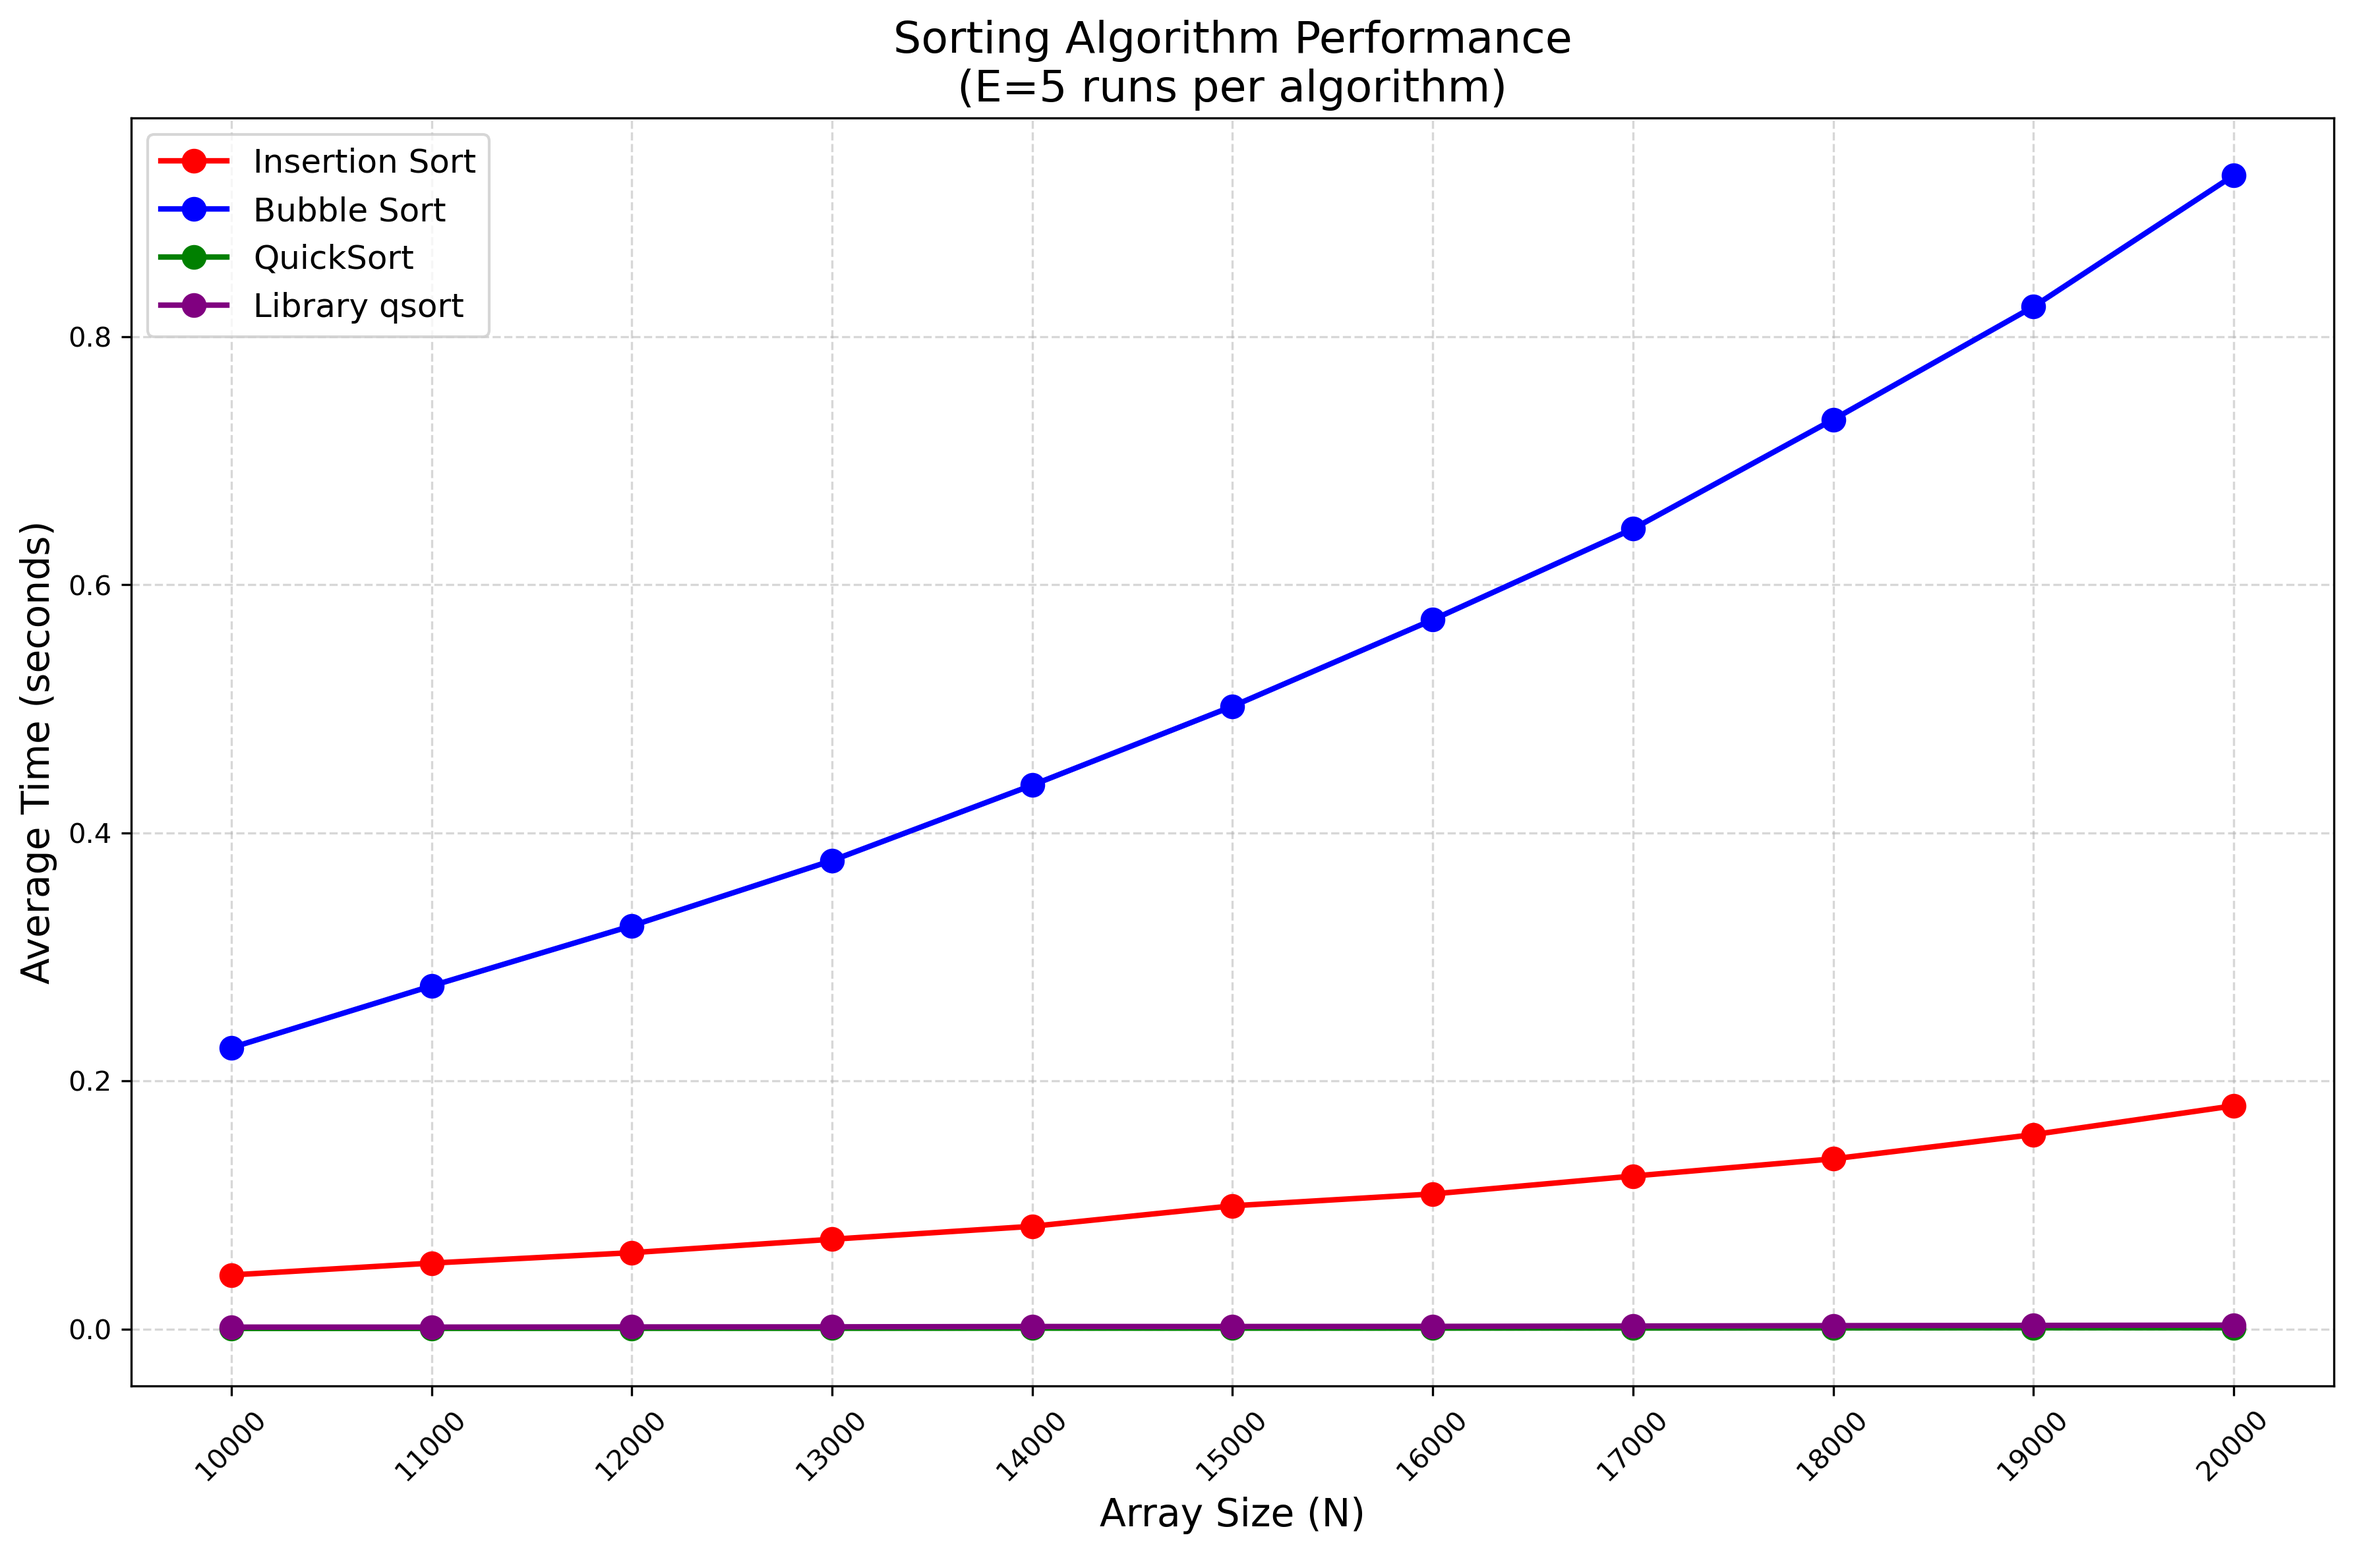
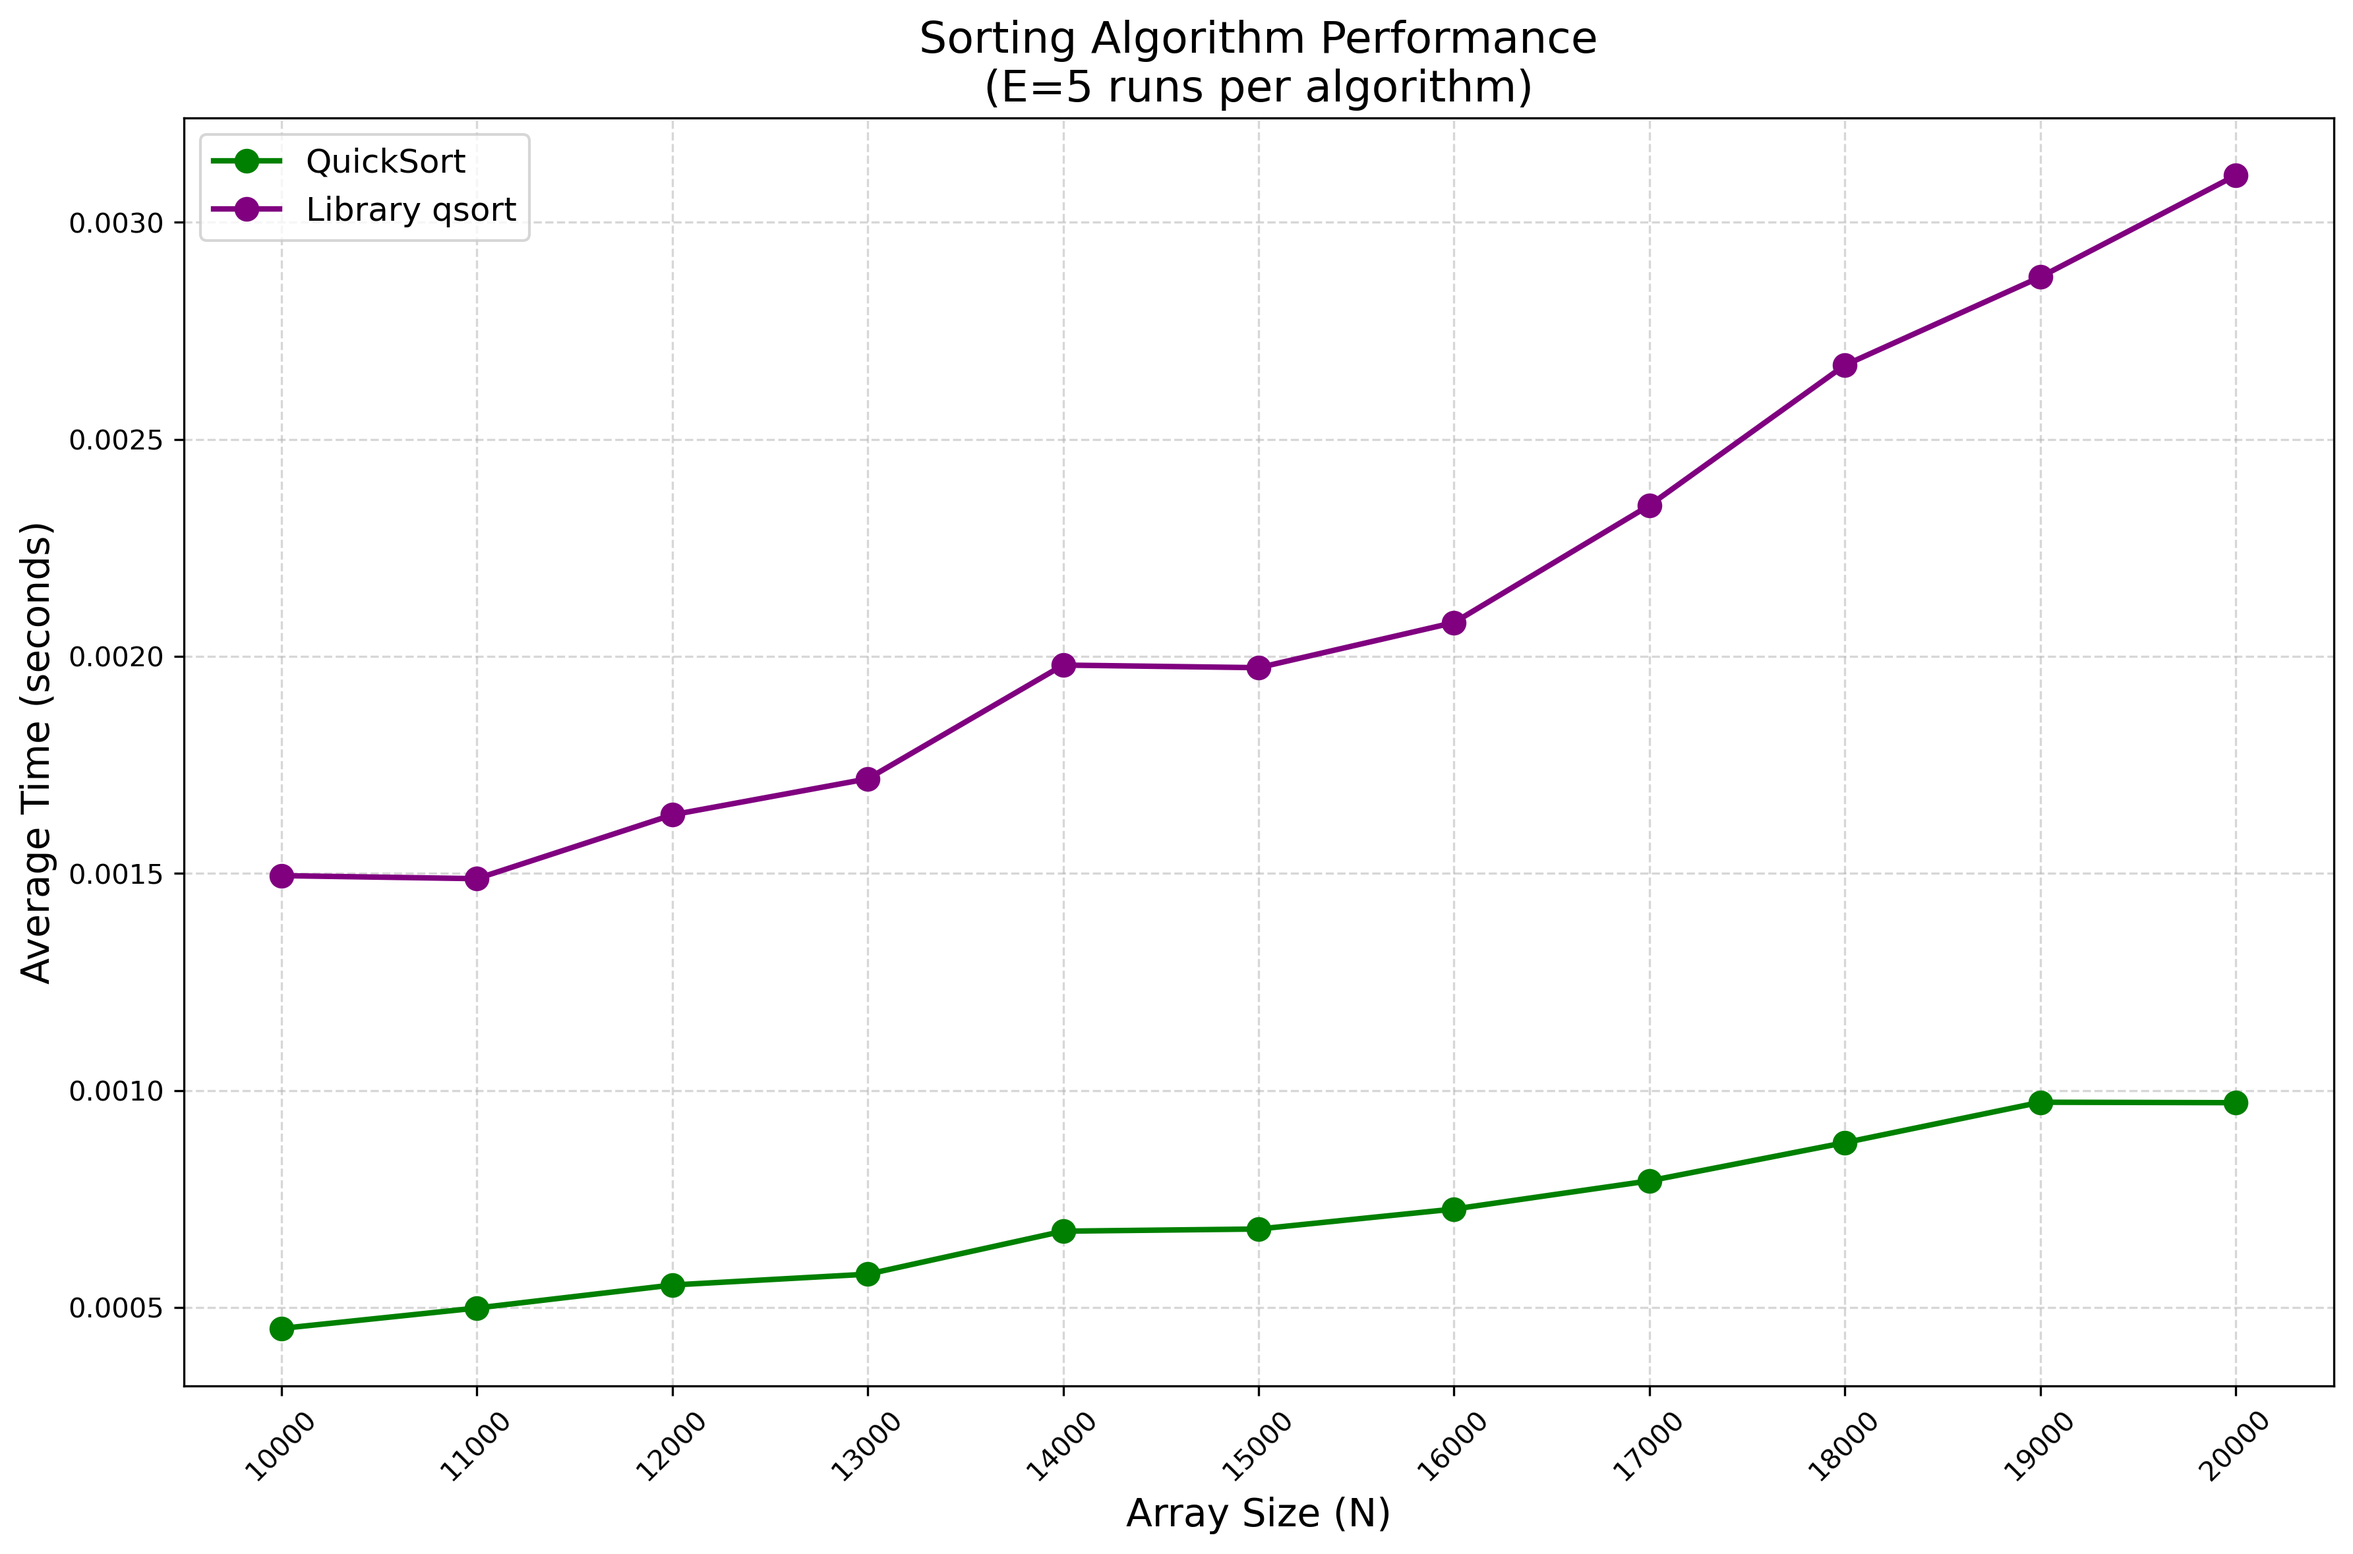
Update benchmarking parameters and add new result plots and CSV files

diff --git a/genai2-cntd-1/plot_results.py b/genai2-cntd-1/plot_results.py
@@ -38,9 +38,9 @@ def plot_results(csv_file):
     plt.figure(figsize=(12, 8))
 
     # Plot each sorting algorithm
-    algorithms = ['insertion_sort_time', 'bubble_sort_time', 'quicksort_time', 'qsort_time']
-    labels = ['Insertion Sort', 'Bubble Sort', 'QuickSort', 'Library qsort']
-    colors = ['red', 'blue', 'green', 'purple']
+    algorithms = ['quicksort_time', 'qsort_time']
+    labels = ['QuickSort', 'Library qsort']
+    colors = ['green', 'purple']
 
     for alg, label, color in zip(algorithms, labels, colors):
         plt.plot(df['N'], df[alg], 'o-', label=label, color=color, linewidth=2, markersize=8)

diff --git a/genai2-cntd-1/run_benchmark.py b/genai2-cntd-1/run_benchmark.py
@@ -11,10 +11,10 @@ def get_timestamp():
 
 def main():
     # Parameters
-    E = 5      # Number of runs per algorithm
+    E = 20      # Number of runs per algorithm
 
     # Test N values from 10000 to 20000 in steps of 1000
-    N_values = range(10000, 20001, 1000)
+    N_values = range(10000, 40001, 1000)
 
     # Generate timestamp for CSV file
     timestamp = get_timestamp()
